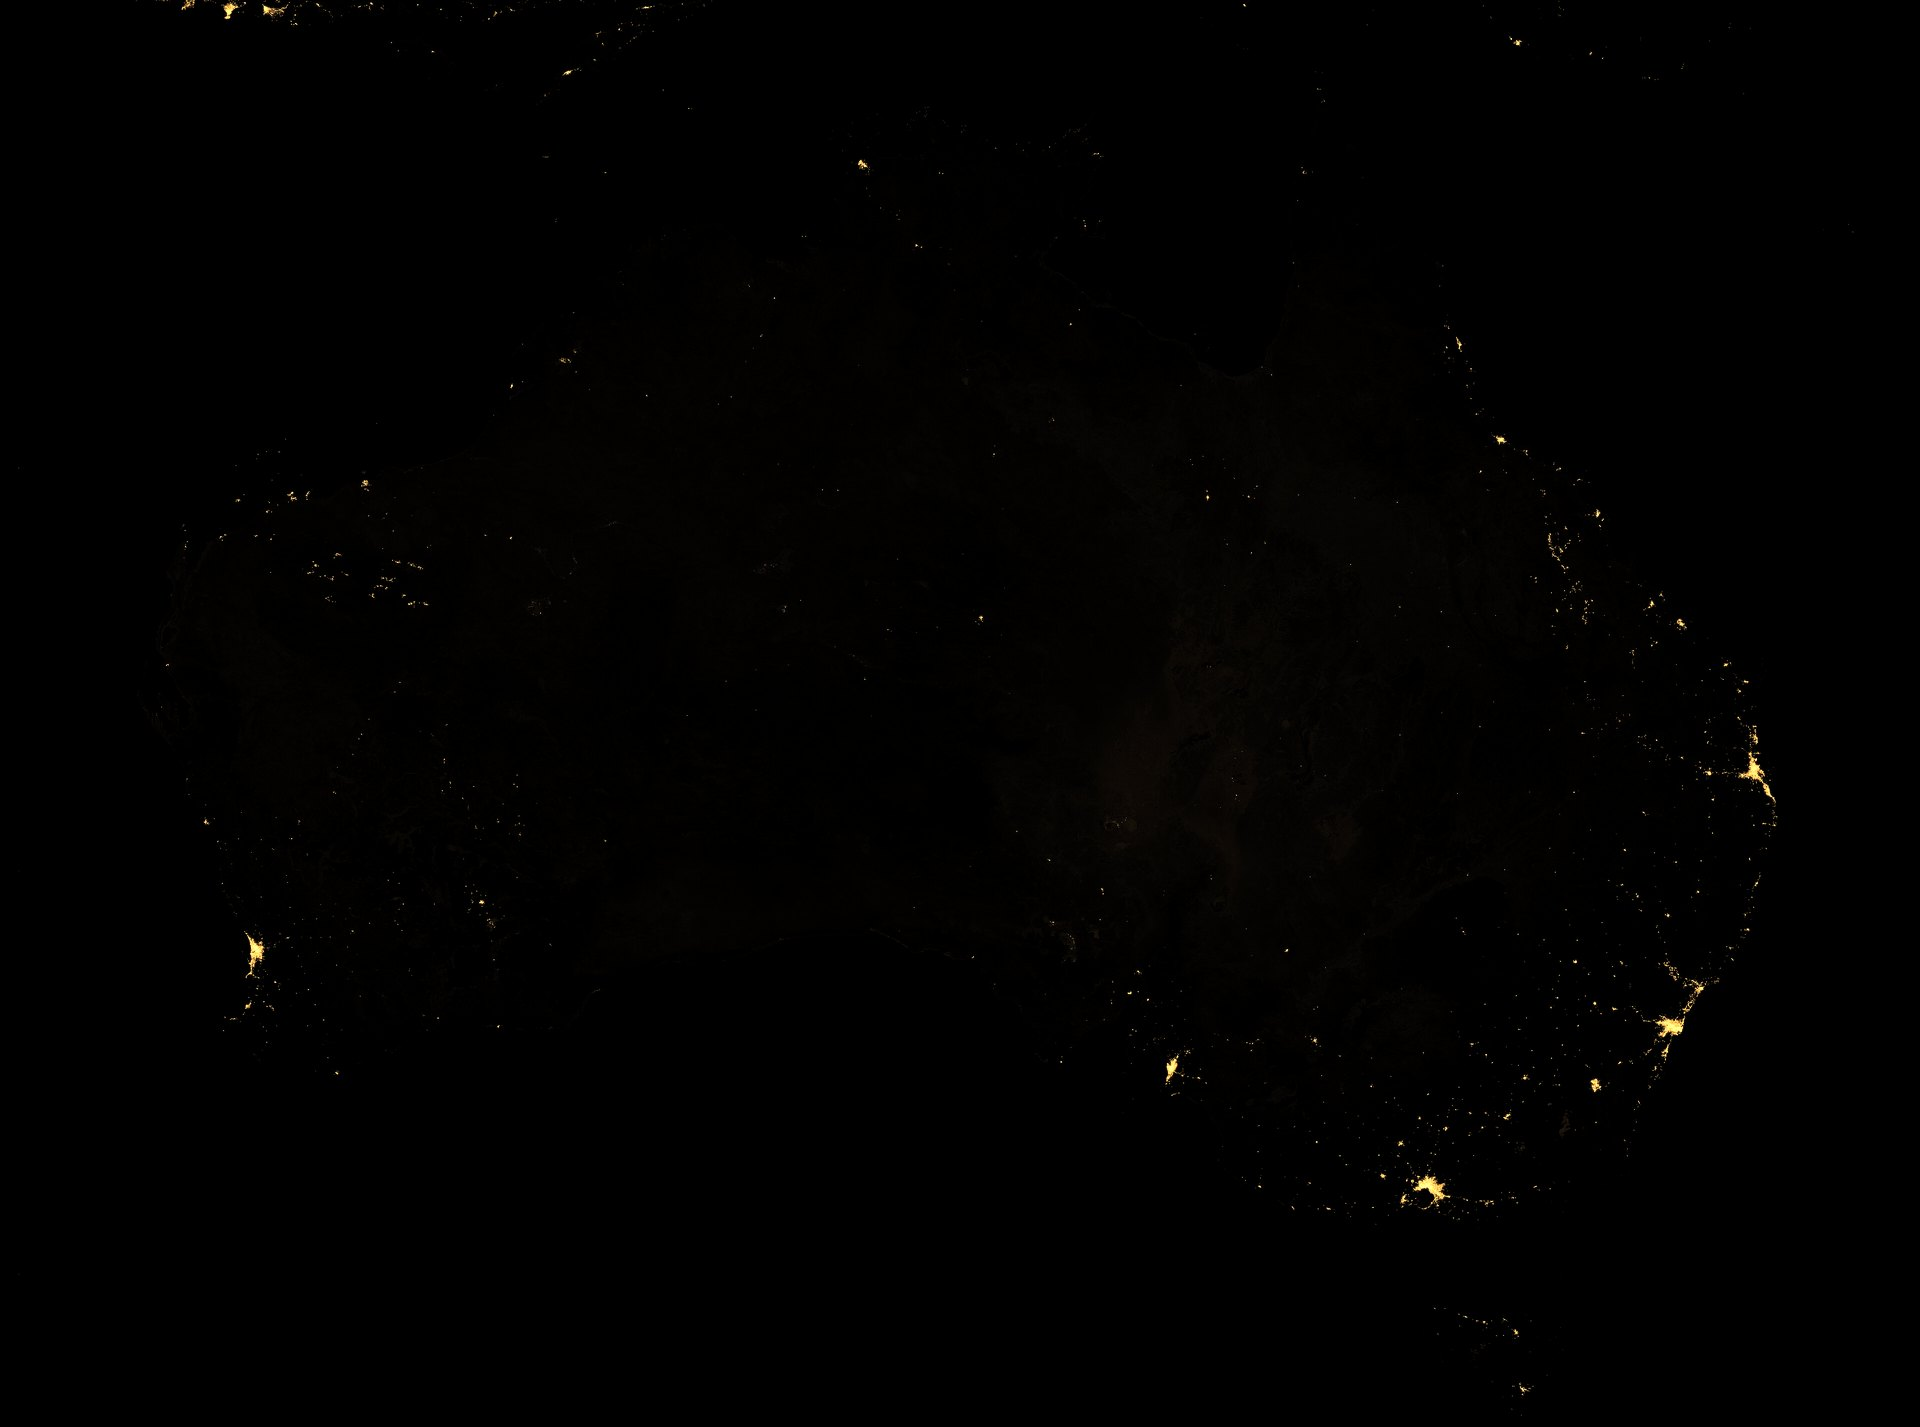
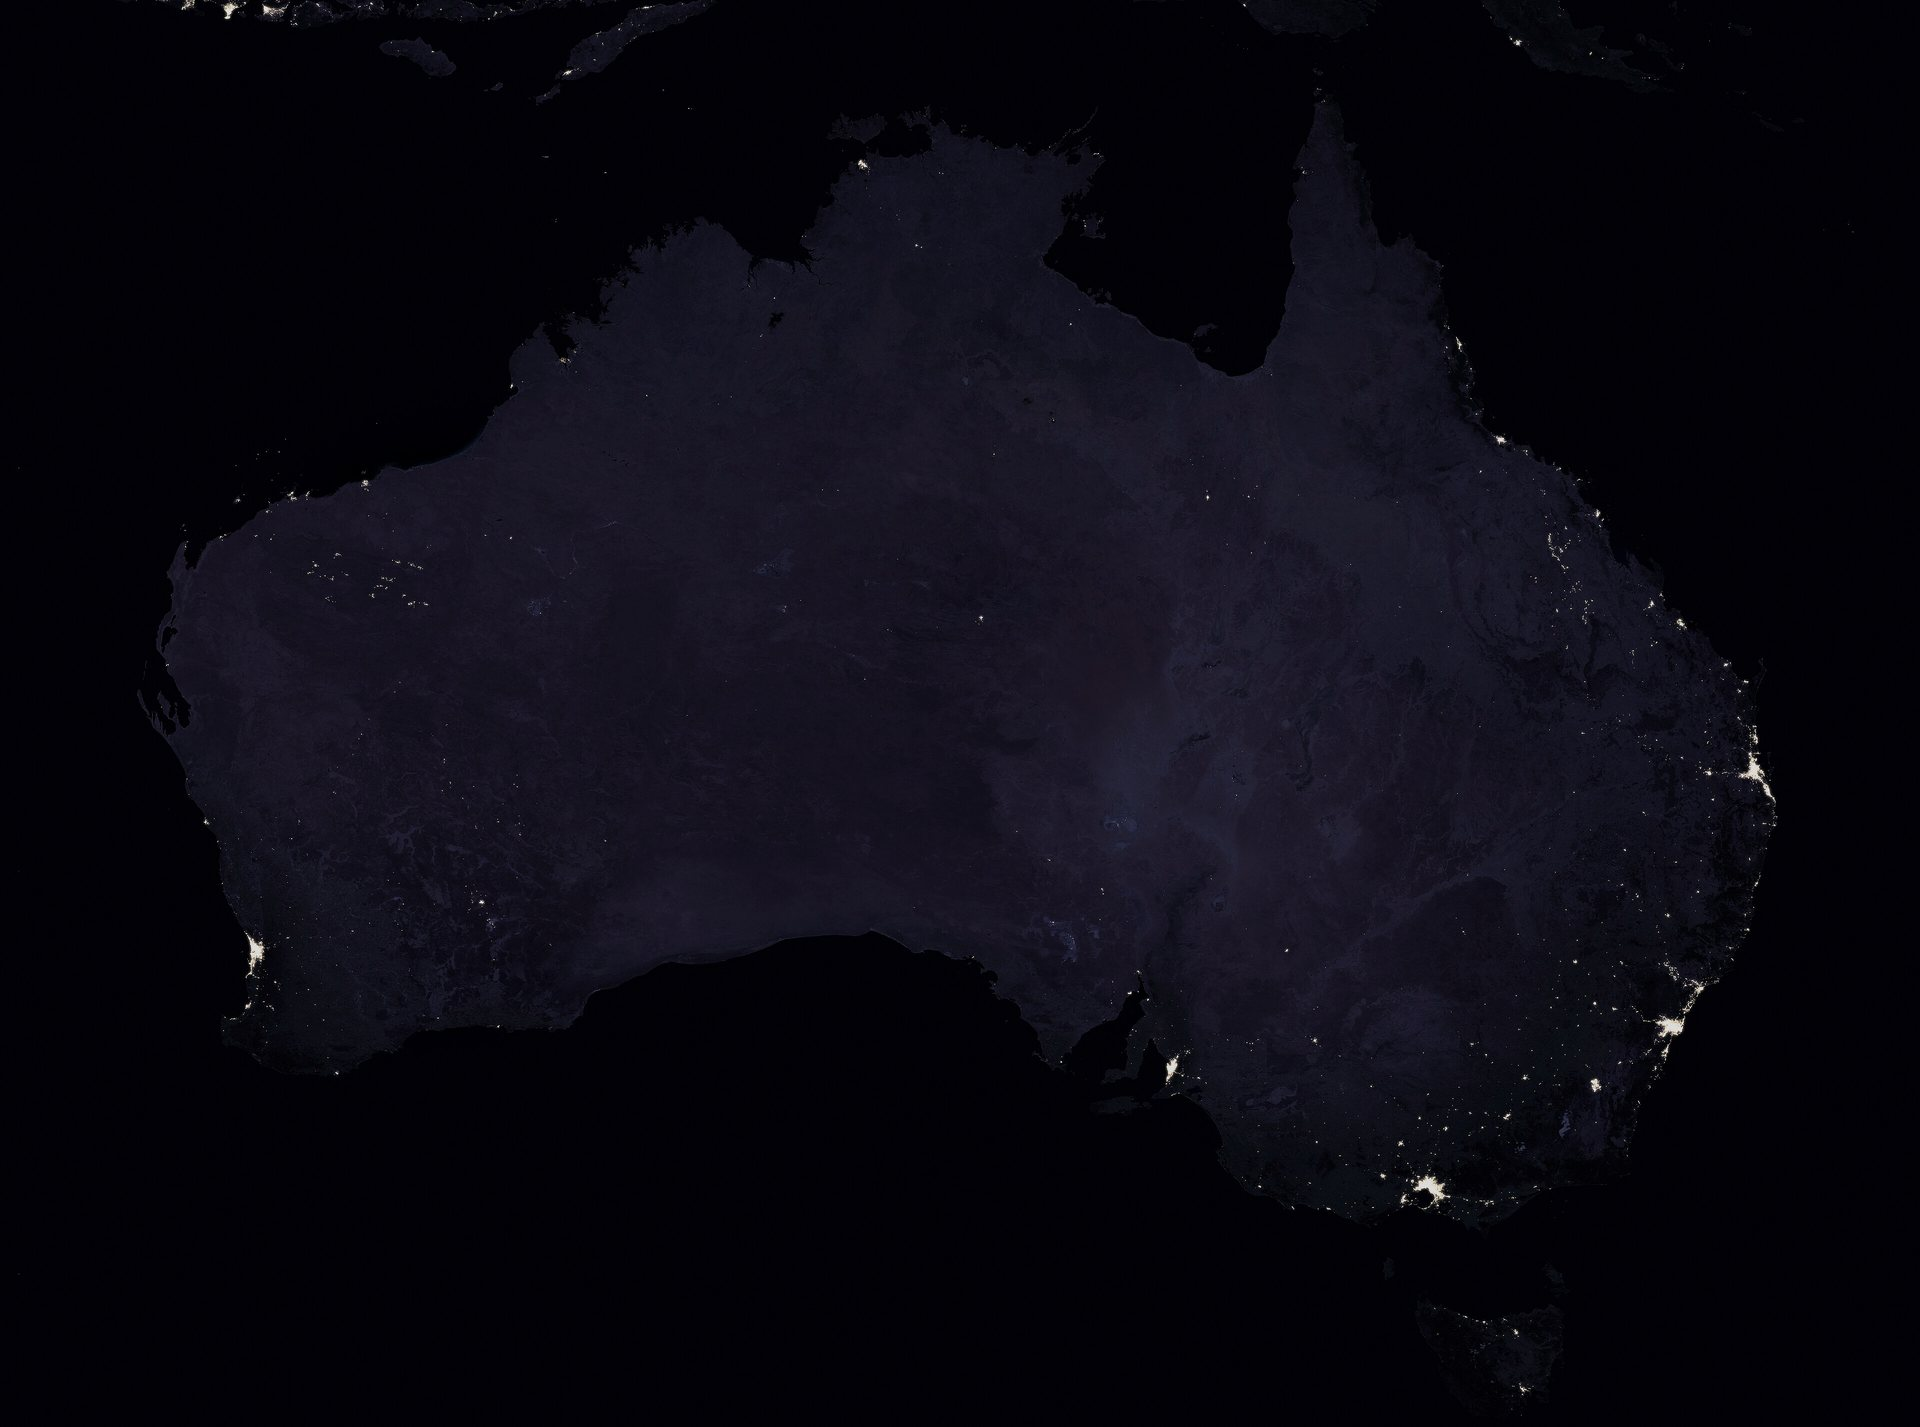
Map next: Losing It / Ren — stark, unlit interior left unlit.
Documentary grade on NASA Black Marble. No cinema. No lyrics. No likeness. Sitting line unchanged.

diff --git a/index.html b/index.html
@@ -57,7 +57,7 @@
     <p>They were wrong about the coastline. They were right that something had to be there.</p>
     <p>That instinct is worth taking seriously again, at a different scale. A civilisation reaching for more than one world has the same problem the old maps had: everything is concentrated at the top, and the bottom is a blank that someone assumes will sort itself out. The blank is where the redundancy has to go.</p>
     <p>A night survey lights the coasts. The interior, and the people who were here first, do not show as gold. They are not a blank. Free, Prior and Informed Consent stays above the legal minimum — a standard, not a chorus.</p>
-    <p class="source-link">Map: NASA Black Marble 2016 (Suomi NPP VIIRS). Public domain. Credit: NASA Earth Observatory / Joshua Stevens, VIIRS data Miguel Román, NASA GSFC. Ungraded survey crop — not a film still, not a facility.</p>
+    <p class="source-link">Map: NASA Black Marble 2016 (Suomi NPP VIIRS). Public domain. Credit: NASA Earth Observatory / Joshua Stevens, VIIRS data Miguel Román, NASA GSFC. Presentation: stark, one take. No cities added. The parts that do not light are still the country.</p>
   </div>
 </section>
 
